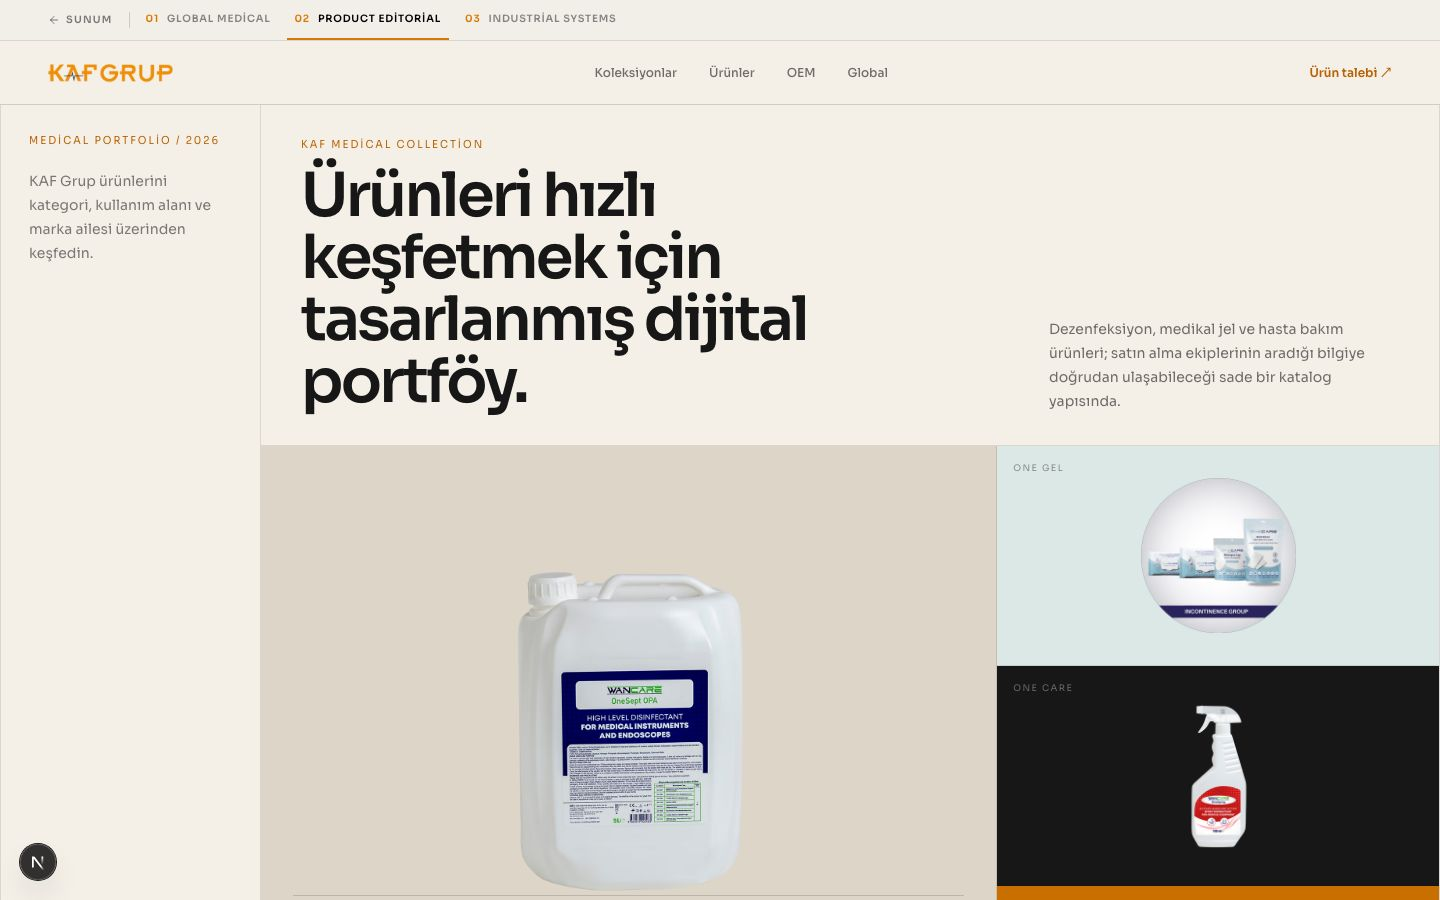
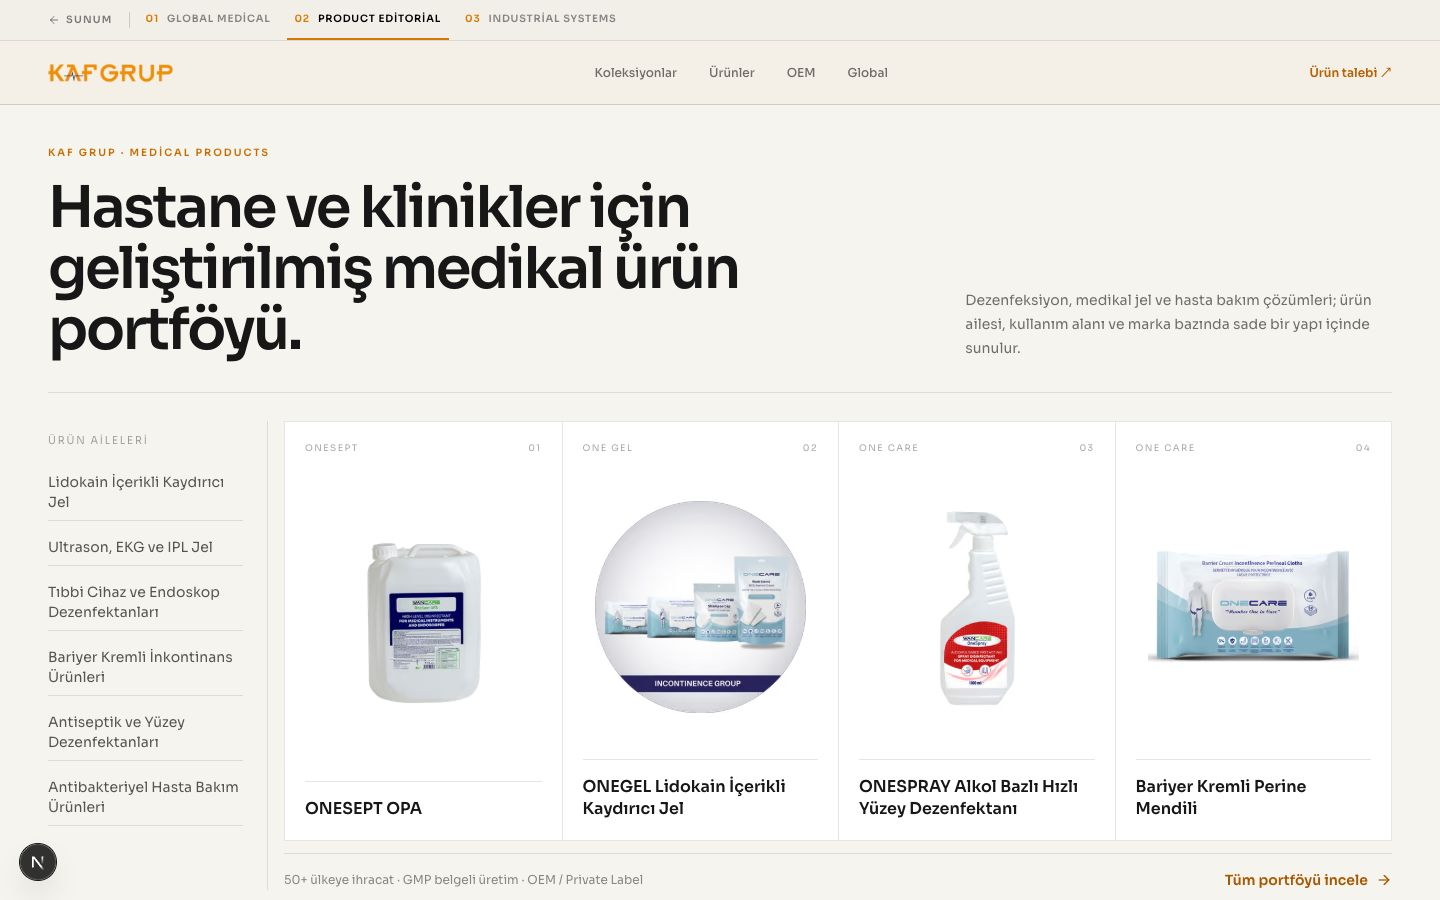
Rebuild draft two as medical catalog

diff --git a/src/components/taslak2/HomeSections.tsx b/src/components/taslak2/HomeSections.tsx
@@ -4,57 +4,60 @@ import { categories, products } from "@/data/products";
 import { company } from "@/data/company";
 import { fairs, oemContent } from "@/data/content";
 
-const featured = [products[2], products[0], products[7], products[12]];
+const heroProducts = [products[2], products[0], products[7], products[12]];
+const selected = [products[2], products[0], products[7]];
 
 export function HomeSections() {
   return (
     <>
-      <section className="bg-[#f4f0e8] text-[#171717]">
-        <div className="mx-auto grid min-h-[calc(100svh-7rem)] max-w-[1440px] grid-cols-1 border-x border-black/10 lg:grid-cols-[260px_1fr]">
-          <aside className="hidden border-r border-black/10 p-7 lg:flex lg:flex-col lg:justify-between">
+      <section className="bg-[#f6f4ef] text-[#171717]">
+        <div className="mx-auto max-w-[1440px] px-5 pb-10 pt-8 sm:px-8 lg:px-12 lg:pb-12 lg:pt-10">
+          <div className="grid gap-8 border-b border-black/10 pb-8 lg:grid-cols-12 lg:items-end">
+            <div className="lg:col-span-7">
+              <p className="text-[10px] font-semibold tracking-[0.2em] text-[#c76d00] uppercase">KAF Grup · Medical Products</p>
+              <h1 className="mt-4 max-w-3xl text-4xl font-semibold leading-[1.06] tracking-[-0.04em] sm:text-5xl lg:text-[3.6rem]">
+                Hastane ve klinikler için geliştirilmiş medikal ürün portföyü.
+              </h1>
+            </div>
+            <div className="lg:col-span-4 lg:col-start-9">
+              <p className="max-w-md text-sm leading-6 text-black/55">
+                Dezenfeksiyon, medikal jel ve hasta bakım çözümleri; ürün ailesi, kullanım alanı ve marka bazında sade bir yapı içinde sunulur.
+              </p>
+            </div>
+          </div>
+
+          <div className="mt-7 grid gap-4 lg:grid-cols-[220px_1fr]">
+            <aside className="border-y border-black/10 py-5 lg:border-y-0 lg:border-r lg:py-3 lg:pr-6">
+              <p className="text-[10px] tracking-[0.18em] text-black/35 uppercase">Ürün aileleri</p>
+              <nav className="mt-4 grid grid-cols-2 gap-x-4 gap-y-2 text-sm lg:grid-cols-1" aria-label="Ürün aileleri">
+                {categories.map((category) => (
+                  <a key={category.id} href="#koleksiyonlar" className="border-b border-black/10 py-2 text-black/65 transition hover:text-[#c76d00]">
+                    {category.name}
+                  </a>
+                ))}
+              </nav>
+            </aside>
+
             <div>
-              <p className="text-[10px] tracking-[0.2em] text-[#b96100] uppercase">Medical portfolio / 2026</p>
-              <p className="mt-5 text-sm leading-6 text-black/50">KAF Grup ürünlerini kategori, kullanım alanı ve marka ailesi üzerinden keşfedin.</p>
-            </div>
-            <div className="space-y-2 text-xs text-black/45">
-              <p>06 ürün ailesi</p>
-              <p>50+ ihracat ülkesi</p>
-              <p>OEM / Private Label</p>
-            </div>
-          </aside>
-
-          <div className="flex min-w-0 flex-col">
-            <div className="grid gap-6 border-b border-black/10 px-5 py-7 sm:px-8 lg:grid-cols-12 lg:px-10 lg:py-8">
-              <div className="lg:col-span-7">
-                <p className="text-[10px] tracking-[0.2em] text-[#b96100] uppercase">KAF Medical Collection</p>
-                <h1 className="mt-3 max-w-3xl text-4xl font-semibold leading-[1.02] tracking-[-0.045em] sm:text-5xl lg:text-[3.8rem]">
-                  Ürünleri hızlı keşfetmek için tasarlanmış dijital portföy.
-                </h1>
-              </div>
-              <div className="flex items-end lg:col-span-4 lg:col-start-9">
-                <p className="max-w-md text-sm leading-6 text-black/55">Dezenfeksiyon, medikal jel ve hasta bakım ürünleri; satın alma ekiplerinin aradığı bilgiye doğrudan ulaşabileceği sade bir katalog yapısında.</p>
-              </div>
-            </div>
-
-            <div className="grid flex-1 lg:grid-cols-[1.25fr_.75fr]">
-              <figure className="relative min-h-[360px] overflow-hidden border-b border-black/10 bg-[#ddd5c8] lg:min-h-0 lg:border-b-0 lg:border-r">
-                <Image src={featured[0].image} alt={featured[0].name} fill priority sizes="(max-width:1024px) 100vw, 60vw" className="object-contain p-10 sm:p-14 lg:p-16" />
-                <figcaption className="absolute inset-x-5 bottom-5 border-t border-black/15 pt-4 sm:inset-x-8 sm:bottom-7">
-                  <div className="flex items-center justify-between gap-4 text-[10px] tracking-[0.15em] text-black/45 uppercase"><span>{featured[0].brand}</span><span>Featured</span></div>
-                  <p className="mt-2 text-2xl font-semibold">{featured[0].name}</p>
-                </figcaption>
-              </figure>
-
-              <div className="grid grid-cols-2 lg:grid-cols-1">
-                {featured.slice(1, 3).map((item, index) => (
-                  <article key={item.id} className={`relative min-h-[220px] overflow-hidden border-b border-black/10 ${index === 0 ? "bg-[#dce8e5]" : "bg-[#171717] text-white"}`}>
-                    <Image src={item.image} alt={item.name} fill sizes="(max-width:1024px) 50vw, 35vw" className="object-contain p-8" />
-                    <span className={`absolute left-4 top-4 text-[9px] tracking-[0.16em] uppercase ${index === 0 ? "text-black/40" : "text-white/35"}`}>{item.brand}</span>
+              <div className="grid min-h-[420px] overflow-hidden border border-black/10 bg-white sm:grid-cols-2 lg:grid-cols-4">
+                {heroProducts.map((product, index) => (
+                  <article key={product.id} className={`relative flex min-h-[300px] flex-col justify-between p-5 ${index ? "border-t border-black/10 sm:border-l sm:border-t-0" : ""} ${index > 1 ? "sm:border-t lg:border-t-0" : ""}`}>
+                    <div className="flex items-center justify-between text-[9px] tracking-[0.16em] text-black/35 uppercase">
+                      <span>{product.brand}</span>
+                      <span>0{index + 1}</span>
+                    </div>
+                    <div className="relative h-52 sm:h-60">
+                      <Image src={product.image} alt={product.name} fill priority={index === 0} sizes="(max-width:640px) 100vw, (max-width:1024px) 50vw, 25vw" className="object-contain p-3" />
+                    </div>
+                    <div className="border-t border-black/10 pt-4">
+                      <h2 className="text-base font-semibold leading-snug">{product.name}</h2>
+                    </div>
                   </article>
                 ))}
-                <a href="#koleksiyonlar" className="col-span-2 flex min-h-[110px] items-center justify-between bg-[#c96f00] px-5 text-sm font-semibold lg:col-span-1">
-                  Tüm ürün ailelerini gör <ArrowRight className="size-4" />
-                </a>
+              </div>
+              <div className="mt-3 flex flex-col gap-3 border-t border-black/10 pt-4 sm:flex-row sm:items-center sm:justify-between">
+                <p className="text-xs text-black/45">50+ ülkeye ihracat · GMP belgeli üretim · OEM / Private Label</p>
+                <a href="#koleksiyonlar" className="inline-flex items-center gap-2 text-sm font-semibold text-[#a95700]">Tüm portföyü incele <ArrowRight className="size-4" /></a>
               </div>
             </div>
           </div>
@@ -63,19 +66,51 @@ export function HomeSections() {
 
       <section id="koleksiyonlar" className="bg-white text-black">
         <div className="mx-auto max-w-[1320px] px-5 py-16 sm:px-8 lg:px-10 lg:py-20">
-          <div className="grid gap-10 lg:grid-cols-12">
-            <div className="lg:col-span-3">
-              <p className="text-[10px] tracking-[0.2em] text-[#b96100] uppercase">Koleksiyonlar</p>
-              <h2 className="mt-4 text-3xl font-semibold tracking-[-0.035em]">Klinik ihtiyaca göre ürün aileleri.</h2>
+          <div className="mb-9 grid gap-6 lg:grid-cols-12">
+            <div className="lg:col-span-4">
+              <p className="text-[10px] tracking-[0.2em] text-[#b96100] uppercase">Ürün kategorileri</p>
+              <h2 className="mt-3 text-3xl font-semibold tracking-[-0.035em] sm:text-4xl">İhtiyaca göre doğru ürün ailesine ulaşın.</h2>
             </div>
-            <div className="lg:col-span-9">
-              <div className="border-t border-black/15">
-                {categories.map((item, index) => (
-                  <article key={item.id} className="grid gap-4 border-b border-black/15 py-5 sm:grid-cols-[44px_1fr_150px_28px] sm:items-center">
-                    <span className="text-xs text-[#b96100]">{String(index + 1).padStart(2, "0")}</span>
-                    <div><p className="text-[10px] tracking-[0.14em] text-black/35 uppercase">{item.brand}</p><h3 className="mt-1 text-lg font-semibold">{item.name}</h3><p className="mt-1 max-w-xl text-sm leading-5 text-black/45">{item.summary}</p></div>
-                    <div className="relative hidden h-20 bg-[#f2efe9] sm:block"><Image src={item.image} alt="" fill sizes="150px" className="object-contain p-3" /></div>
-                    <ArrowUpRight className="hidden size-4 text-black/30 sm:block" />
+            <div className="lg:col-span-5 lg:col-start-8">
+              <p className="text-sm leading-6 text-black/50">Her kategori, klinik kullanım bağlamı ve marka ailesiyle birlikte açıklanır; kullanıcı uzun ürün listelerinde kaybolmaz.</p>
+            </div>
+          </div>
+
+          <div className="grid gap-x-8 border-t border-black/15 md:grid-cols-2">
+            {categories.map((item, index) => (
+              <article key={item.id} className="grid grid-cols-[46px_1fr_92px] items-center gap-4 border-b border-black/15 py-5">
+                <span className="text-xs text-[#b96100]">{String(index + 1).padStart(2, "0")}</span>
+                <div>
+                  <p className="text-[10px] tracking-[0.12em] text-black/35 uppercase">{item.brand}</p>
+                  <h3 className="mt-1 text-lg font-semibold leading-snug">{item.name}</h3>
+                  <p className="mt-2 text-sm leading-5 text-black/45">{item.summary}</p>
+                </div>
+                <div className="relative h-20 bg-[#f5f3ee]"><Image src={item.image} alt="" fill sizes="92px" className="object-contain p-2" /></div>
+              </article>
+            ))}
+          </div>
+        </div>
+      </section>
+
+      <section id="urunler" className="bg-[#efede7] text-black">
+        <div className="mx-auto max-w-[1320px] px-5 py-16 sm:px-8 lg:px-10 lg:py-20">
+          <div className="grid gap-10 lg:grid-cols-12">
+            <div className="lg:col-span-4">
+              <p className="text-[10px] tracking-[0.2em] text-[#b96100] uppercase">Öne çıkan ürünler</p>
+              <h2 className="mt-3 text-3xl font-semibold tracking-[-0.035em] sm:text-4xl">Ürünü büyük görselle değil, doğru bilgiyle öne çıkarın.</h2>
+              <p className="mt-4 max-w-sm text-sm leading-6 text-black/50">Ürün adı, kullanım amacı ve marka bilgisi ilk bakışta okunur; görsel destekleyici rol üstlenir.</p>
+            </div>
+            <div className="lg:col-span-8">
+              <div className="divide-y divide-black/15 border-y border-black/15">
+                {selected.map((item, index) => (
+                  <article key={item.id} className="grid gap-5 py-6 sm:grid-cols-[42px_1fr_180px] sm:items-center">
+                    <span className="text-xs text-[#b96100]">0{index + 1}</span>
+                    <div>
+                      <p className="text-[10px] tracking-[0.14em] text-black/35 uppercase">{item.brand}</p>
+                      <h3 className="mt-1 text-xl font-semibold">{item.name}</h3>
+                      <p className="mt-2 max-w-xl text-sm leading-6 text-black/50">{item.summary}</p>
+                    </div>
+                    <div className="relative h-32 bg-white"><Image src={item.image} alt={item.name} fill sizes="180px" className="object-contain p-4" /></div>
                   </article>
                 ))}
               </div>
@@ -84,38 +119,37 @@ export function HomeSections() {
         </div>
       </section>
 
-      <section id="urunler" className="bg-[#151515] text-white">
-        <div className="mx-auto max-w-[1440px] px-5 py-16 sm:px-8 lg:px-12 lg:py-24">
-          <div className="mb-10 flex flex-col gap-5 border-b border-white/12 pb-6 sm:flex-row sm:items-end sm:justify-between">
-            <div><p className="text-[10px] tracking-[0.2em] text-[#e58a1b] uppercase">Seçili ürünler</p><h2 className="mt-3 text-4xl font-semibold tracking-[-0.04em]">Ürün bilgisini görselin gerisinde bırakmayan düzen.</h2></div>
-            <p className="max-w-sm text-sm leading-6 text-white/40">Büyük görsel alanlar, kısa ürün özeti ve marka ayrımı. Satın alma odaklı, sakin ve okunaklı.</p>
-          </div>
-          <div className="grid gap-px bg-white/10 lg:grid-cols-4">
-            {featured.map((item) => (
-              <article key={item.id} className="bg-[#151515]">
-                <div className="relative aspect-[4/5] bg-[#ece8df]"><Image src={item.image} alt={item.name} fill sizes="(max-width:1024px) 50vw, 25vw" className="object-contain p-8" /></div>
-                <div className="p-5"><p className="text-[10px] tracking-[0.14em] text-[#e58a1b] uppercase">{item.brand}</p><h3 className="mt-2 text-lg font-semibold">{item.name}</h3><p className="mt-2 text-sm leading-5 text-white/40">{item.summary}</p></div>
-              </article>
-            ))}
-          </div>
-        </div>
-      </section>
-
-      <section id="oem" className="bg-[#c96f00] text-[#151515]">
-        <div className="mx-auto grid max-w-[1440px] lg:grid-cols-[.9fr_1.1fr]">
-          <div className="relative min-h-[380px] bg-[#b96300] lg:min-h-[560px]"><Image src={oemContent.image} alt="KAF Grup OEM / Private Label" fill sizes="(max-width:1024px) 100vw, 45vw" className="object-cover" /></div>
-          <div className="flex flex-col justify-between p-6 sm:p-10 lg:p-14">
-            <div><p className="text-[10px] tracking-[0.2em] uppercase">OEM / Private Label</p><h2 className="mt-5 max-w-xl text-4xl font-semibold tracking-[-0.04em] sm:text-5xl">Markanız için ürün geliştirme ve üretim.</h2><p className="mt-5 max-w-xl text-base leading-7 text-black/65">{oemContent.summary}</p></div>
-            <a href={`mailto:${company.contact.email}`} className="mt-10 inline-flex items-center gap-2 text-sm font-semibold">OEM görüşmesi başlat <ArrowUpRight className="size-4" /></a>
+      <section id="oem" className="bg-[#161616] text-white">
+        <div className="mx-auto max-w-[1320px] px-5 py-16 sm:px-8 lg:px-10 lg:py-20">
+          <div className="grid gap-10 lg:grid-cols-12 lg:items-center">
+            <div className="lg:col-span-5">
+              <p className="text-[10px] tracking-[0.2em] text-[#e58a1b] uppercase">OEM / Private Label</p>
+              <h2 className="mt-4 text-4xl font-semibold tracking-[-0.04em]">Markanız için geliştirme ve üretim desteği.</h2>
+              <p className="mt-5 max-w-lg text-sm leading-6 text-white/45">{oemContent.summary}</p>
+              <a href={`mailto:${company.contact.email}`} className="mt-7 inline-flex items-center gap-2 text-sm font-semibold text-[#f0a33e]">OEM görüşmesi başlat <ArrowUpRight className="size-4" /></a>
+            </div>
+            <div className="lg:col-span-7">
+              <div className="relative aspect-[16/8] overflow-hidden bg-[#222]"><Image src={oemContent.image} alt="KAF Grup OEM / Private Label" fill sizes="(max-width:1024px) 100vw, 58vw" className="object-cover" /></div>
+            </div>
           </div>
         </div>
       </section>
 
-      <section id="global" className="bg-[#f4f0e8] text-black">
+      <section id="global" className="bg-white text-black">
         <div className="mx-auto max-w-[1320px] px-5 py-16 sm:px-8 lg:px-10 lg:py-20">
           <div className="grid gap-10 lg:grid-cols-12">
-            <div className="lg:col-span-4"><p className="text-[10px] tracking-[0.2em] text-[#b96100] uppercase">Global görünürlük</p><h2 className="mt-4 text-4xl font-semibold tracking-[-0.04em]">Ürün portföyünün arkasında uluslararası sektör deneyimi.</h2></div>
-            <div className="grid gap-3 sm:grid-cols-3 lg:col-span-8">{fairs.slice(0,3).map((fair) => <figure key={fair.id}><div className="relative aspect-[4/3] overflow-hidden bg-[#ddd]"><Image src={fair.image} alt={fair.name} fill sizes="(max-width:768px) 100vw, 25vw" className="object-cover" /></div><figcaption className="mt-2 flex justify-between gap-3 text-xs"><strong>{fair.name}</strong><span className="text-black/40">{fair.location}</span></figcaption></figure>)}</div>
+            <div className="lg:col-span-4">
+              <p className="text-[10px] tracking-[0.2em] text-[#b96100] uppercase">Global görünürlük</p>
+              <h2 className="mt-4 text-4xl font-semibold tracking-[-0.04em]">Ürün portföyünün arkasında uluslararası sektör deneyimi.</h2>
+            </div>
+            <div className="grid gap-4 sm:grid-cols-3 lg:col-span-8">
+              {fairs.slice(0, 3).map((fair) => (
+                <figure key={fair.id}>
+                  <div className="relative aspect-[4/3] overflow-hidden bg-[#ddd]"><Image src={fair.image} alt={fair.name} fill sizes="(max-width:768px) 100vw, 25vw" className="object-cover" /></div>
+                  <figcaption className="mt-3 flex justify-between gap-3 text-xs"><strong>{fair.name}</strong><span className="text-black/40">{fair.location}</span></figcaption>
+                </figure>
+              ))}
+            </div>
           </div>
         </div>
       </section>

diff --git a/src/components/taslak2/SiteFooter.tsx b/src/components/taslak2/SiteFooter.tsx
@@ -8,7 +8,7 @@ export function SiteFooter() {
           KAF Grup
         </p>
         <p className="mt-2 text-sm tracking-[0.2em] text-white/40 uppercase">
-          Dijital katalog · Sayı 01
+          Medikal ürün portföyü
         </p>
         <div className="mt-10 flex flex-col gap-6 border-t border-white/15 pt-8 sm:flex-row sm:items-end sm:justify-between">
           <div className="max-w-sm text-base leading-relaxed text-white/55">
@@ -20,7 +20,7 @@ export function SiteFooter() {
           </p>
         </div>
         <p className="mt-10 text-xs text-white/30">
-          © {new Date().getFullYear()} · Editoryal ürün taslağı
+          © {new Date().getFullYear()} · KAF Grup medikal ürün kataloğu
         </p>
       </div>
     </footer>

diff --git a/src/app/taslak-2/page.tsx b/src/app/taslak-2/page.tsx
@@ -5,9 +5,9 @@ import { SiteFooter } from "@/components/taslak2/SiteFooter";
 import { HomeSections } from "@/components/taslak2/HomeSections";
 
 export const metadata: Metadata = {
-  title: "Taslak 2 — Editoryal Ürün Dünyası",
+  title: "Taslak 2 — Medikal Ürün Kataloğu",
   description:
-    "KAF Grup editoryal ürün dünyası: asimetrik katalog, ürün hikâyeleri ve fuar galerisi.",
+    "KAF Grup medikal ürün kataloğu: ürün aileleri, seçili ürünler, OEM ve global görünürlük.",
   robots: { index: false, follow: false },
 };
 
